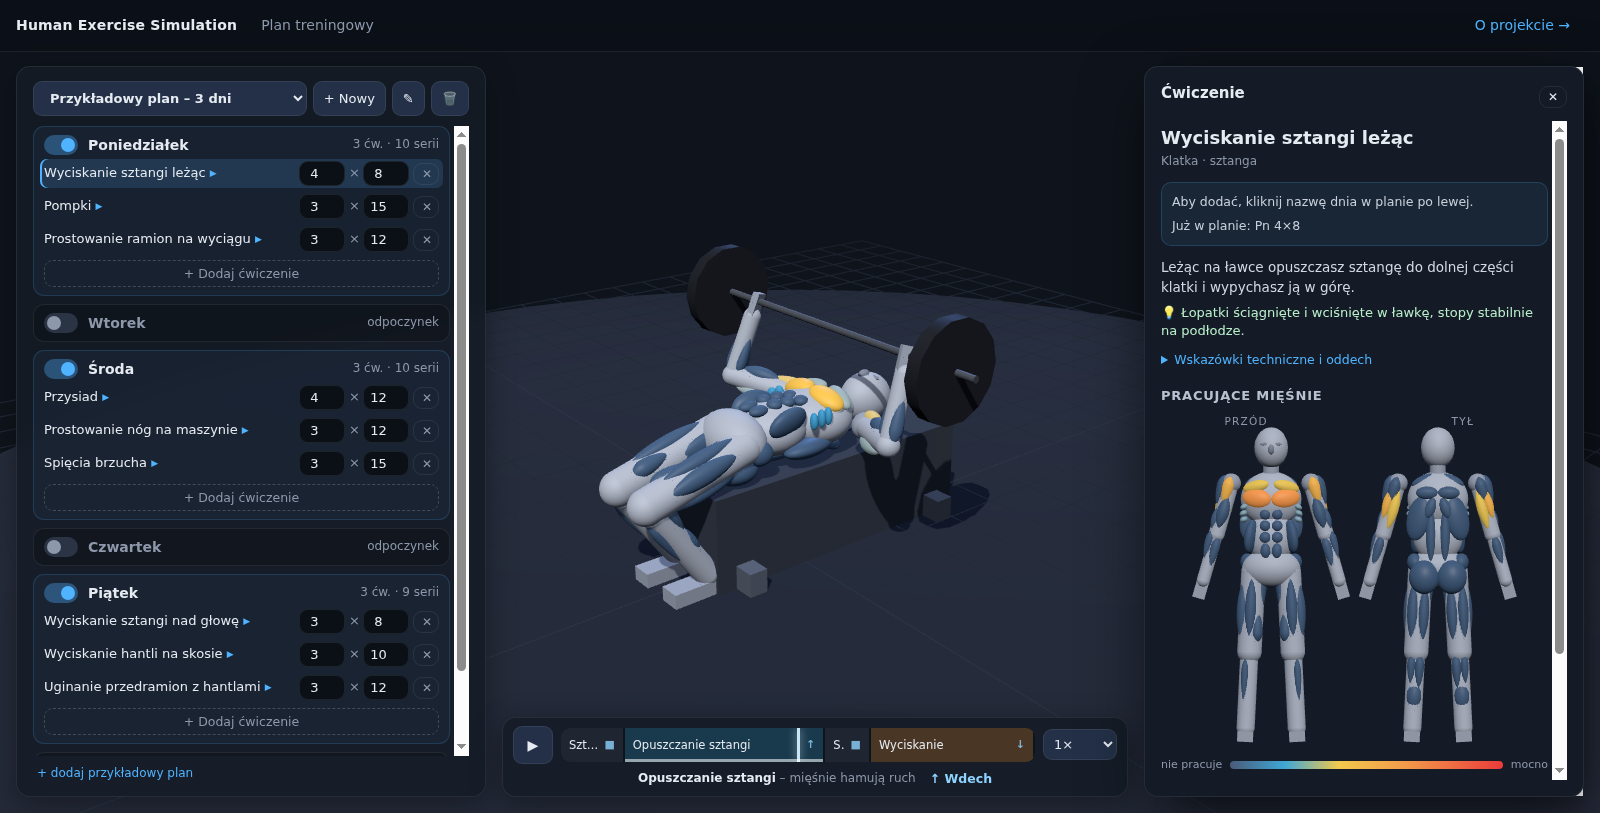
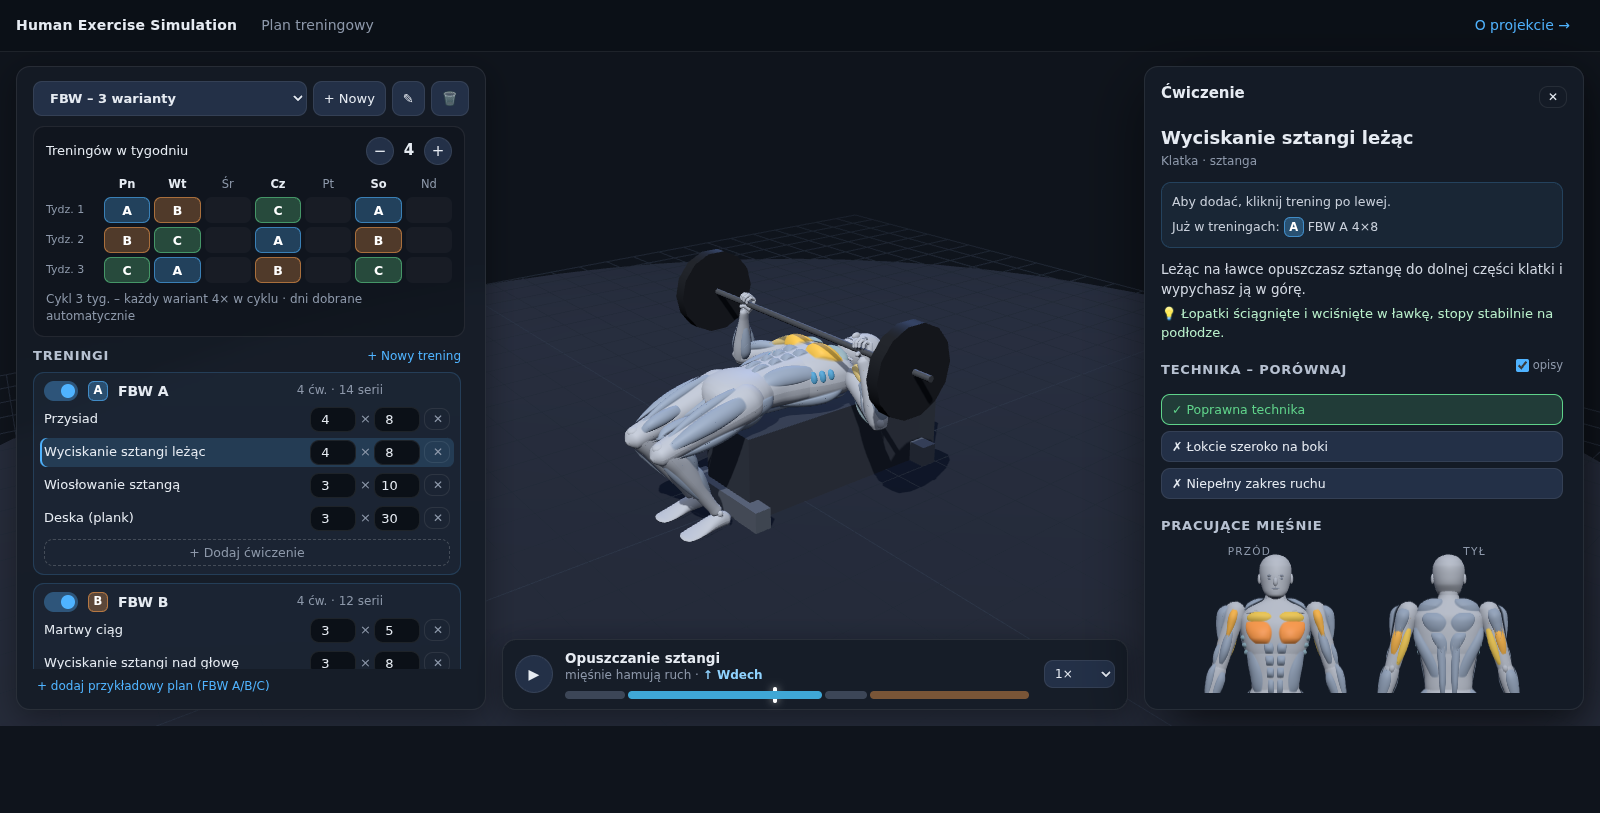
Realistyczny (organiczny) wygląd człowieka jako domyślny; ?look=classic – dawny ludzik; nowe zrzuty na stronie projektu

diff --git a/docs/index.html b/docs/index.html
@@ -92,7 +92,7 @@
       <figure><img src="img/pushup.png" alt="Pompka wybrana w planie"><figcaption>Ćwiczenie wybrane z planu: animacja na modelu, pasek faz ruchu i oddechu, a w panelu opis, typowe błędy i figura (przód i tył) z pracującymi mięśniami.</figcaption></figure>
       <div class="col">
         <figure><img src="img/mistake.png" alt="Błąd techniki – kolana do środka"><figcaption>Typowy błąd: kolana uciekają do środka w przysiadzie. Przeciążone więzadła kolana są zaznaczone na czerwono.</figcaption></figure>
-        <figure><img src="img/bench.png" alt="Wyciskanie sztangi leżąc"><figcaption>Każde z 47 ćwiczeń ma animację z rekwizytami – tu wyciskanie sztangi na ławce.</figcaption></figure>
+        <figure><img src="img/bench.png" alt="Wyciskanie sztangi leżąc"><figcaption>Każde z 48 ćwiczeń ma animację z rekwizytami – tu wyciskanie sztangi na ławce.</figcaption></figure>
       </div>
     </div>
     <div class="shots" style="margin-top:14px">
@@ -229,7 +229,7 @@
     <table>
       <thead><tr><th style="width:150px">Data</th><th style="width:90px">Wersja</th><th>Zmiany</th></tr></thead>
       <tbody>
-        <tr><td>24.11.2026</td><td>0.9</td><td>Audyt wiarygodności wszystkich 48 ćwiczeń i stałe reguły jakości. Naprawione dłonie (kciuk był po złej stronie) i jawny obrót przedramion: właściwy nachwyt/podchwyt/chwyt młotkowy w każdym ćwiczeniu, chwyt nie zmienia się w trakcie ruchu i nie ślizga po drążku, sztanga przy wyciskaniu w nasadzie dłoni, hantel w goblecie oparty na dłoniach, pięści w desce, uchwyty maszyn. Poprawione wymiary sprzętu (stopy nie przechodzą przez podnóżek, nogi przez siedzisko). Test fizyki sprawdza teraz też sprzęt (w tym drążki, poręcze i wałki, z zapasem na mięśnie), stopy i chwyt; podciąganie: klatka za drążkiem, broda nad nim; checklista ćwiczenia w README. Kamera zostaje w miejscu przy pokazywaniu błędu (porównanie 1:1). Po kliknięciu treningu analiza pokazuje mięśnie tego treningu, nie całego tygodnia. Demo nowego wyglądu: zamknięta miednica, naturalne kolano i goleń.</td></tr>
+        <tr><td>24.11.2026</td><td>0.9</td><td>Audyt wiarygodności wszystkich 48 ćwiczeń i stałe reguły jakości. Naprawione dłonie (kciuk był po złej stronie) i jawny obrót przedramion: właściwy nachwyt/podchwyt/chwyt młotkowy w każdym ćwiczeniu, chwyt nie zmienia się w trakcie ruchu i nie ślizga po drążku, sztanga przy wyciskaniu w nasadzie dłoni, hantel w goblecie oparty na dłoniach, pięści w desce, uchwyty maszyn. Poprawione wymiary sprzętu (stopy nie przechodzą przez podnóżek, nogi przez siedzisko). Test fizyki sprawdza teraz też sprzęt (w tym drążki, poręcze i wałki, z zapasem na mięśnie), stopy i chwyt; podciąganie: klatka za drążkiem, broda nad nim; checklista ćwiczenia w README. Kamera zostaje w miejscu przy pokazywaniu błędu (porównanie 1:1). Po kliknięciu treningu analiza pokazuje mięśnie tego treningu, nie całego tygodnia. Nowy, realistyczny wygląd człowieka jest domyślny: dorosła, wysportowana sylwetka z gładką skórą, widocznymi stawami (rzepka, łokieć, kostki), dłońmi z palcami i wyraźnie zarysowanymi mięśniami (dawny ludzik: ?look=classic).</td></tr>
         <tr><td>24.11.2026</td><td>0.8</td><td>Nowy model planu: treningi (warianty) zamiast ćwiczeń przypisanych do dni. Plan = wybrane warianty + liczba treningów w tygodniu; harmonogram (cykl wielotygodniowy) układa się automatycznie – każdy wariant tyle samo razy, dni i kolejność dobrane pod regenerację. Ręczna zmiana dni, analiza ze średniej cyklu, rekomendacje z podpowiedzią wariantu. Stare plany przenoszone automatycznie. Usunięte rozwijane „Wskazówki techniczne i oddech” (oddech jest na pasku faz).</td></tr>
         <tr><td>24.11.2026</td><td>0.7.1</td><td>Stały chwyt na drążku: kinematyka odwrotna ramion – w wyciskaniu leżąc, ściąganiu drążka i face pullu zadajemy tor drążka i szerokość chwytu, a łokcie i barki dopasowują się same (koniec z „ślizganiem się” dłoni). Lina w face pullu rozkłada się razem z dłońmi. Nowe ćwiczenie: rumuński martwy ciąg z hantlami (48 ćwiczeń).</td></tr>
         <tr><td>24.11.2026</td><td>0.7</td><td>Podstawowa fizyka ciała: bryły kolizyjne (głowa, szyja, klatka, brzuch, miednica, kończyny), solver odsuwający sztangę/uchwyt od ciała w każdej klatce (barki, łokcie, lekkie odchylenie tułowia – tak jak robi to ćwiczący) i automatyczny test całego katalogu: sprzęt nie wchodzi w ciało, dłonie nie wchodzą w tułów, nogi nie nachodzą na siebie, nic nie przechodzi przez podłogę. Przysiady z rozstawem na szerokość barków. Kliknięcie dnia pokazuje jego mięśnie na modelu, a „+ Dodaj ćwiczenie” otwiera listę ćwiczeń dla tego dnia.</td></tr>

diff --git a/src/body.js b/src/body.js
@@ -102,8 +102,8 @@ function twistChain(rootG, midG, endG, angle, lateralSign) {
   }
 }
 
-// look: 'classic' (domyślny) albo 'organic' (DEMO nowego wyglądu; w przeglądarce także ?look=organic)
-export function createBody({ look = (typeof location !== 'undefined' && new URLSearchParams(location.search).get('look')) || 'classic' } = {}) {
+// look: 'organic' (domyślny – realistyczna sylwetka) albo 'classic' (dawny ludzik z brył; w przeglądarce ?look=classic)
+export function createBody({ look = (typeof location !== 'undefined' && new URLSearchParams(location.search).get('look')) || 'organic' } = {}) {
   const organic = look === 'organic';
   const joints = {};
   const points = {};

diff --git a/src/scene.js b/src/scene.js
@@ -53,8 +53,8 @@ export const body = createBody();
 scene.add(body.root);
 
 // ---------- Kolory aktywacji ----------
-// Wygląd organiczny (DEMO, ?look=organic): mięśnie w spoczynku w jasnym, stonowanym kolorze bliskim skórze
-const ORGANIC = new URLSearchParams(location.search).get('look') === 'organic';
+// Wygląd organiczny (domyślny; ?look=classic – dawny ludzik): mięśnie w spoczynku w jasnym, stonowanym kolorze bliskim skórze
+const ORGANIC = new URLSearchParams(location.search).get('look') !== 'classic';
 const STOPS = [
   [0.0, new THREE.Color(ORGANIC ? 0xa9b3c4 : 0x4a5a78)],
   [0.2, new THREE.Color(0x3fa7d6)],

diff --git a/README.md b/README.md
@@ -67,4 +67,4 @@ Wzrokowo – arkusze zbliżeń (`tools/sheet.html?ts=0.01,0.5&focus=handL&dist=0
 - [ ] stopy stoją płasko tam, gdzie powinny (podłoga, platforma, podnóżek), sprzęt ma sensowne wymiary
 - [ ] przy przełączeniu na błąd technika różni się tylko tym błędem (kamera zostaje w miejscu – porównanie 1:1)
 
-Narzędzia: `tools/points.html?ex=db_row&t=0,0.5&pts=handR,toeL` – pozycje punktów ciała (do ustawiania sprzętu i podparć), `tools/sheet.html?grips` – tabela chwytu wszystkich ćwiczeń, `tools/look.html` – porównanie wyglądów.
+Narzędzia: `tools/points.html?ex=db_row&t=0,0.5&pts=handR,toeL` – pozycje punktów ciała (do ustawiania sprzętu i podparć), `tools/sheet.html?grips` – tabela chwytu wszystkich ćwiczeń, `tools/look.html` – porównanie wyglądów (domyślny: realistyczny, `?look=classic` – dawny ludzik z brył).
